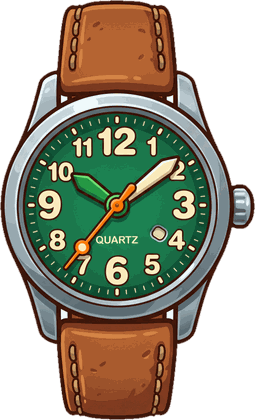
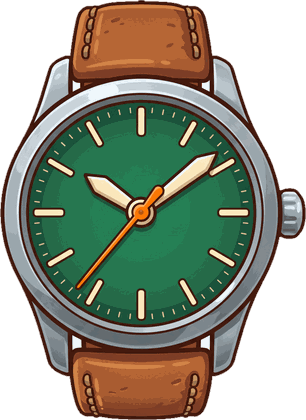
Images : 3 grandes cartes (dont la gradée), Golem, Loup, Kebabzor, trophées, montre quartz, icône cartes ; reprise lot-redo-19

diff --git a/js/assets.js b/js/assets.js
@@ -1,3 +1,3 @@
 /* généré par tools/manifest.py */
-window.ASSETS = ["ach-bets50", "ach-bets500", "ach-cr10", "ach-crp25", "ach-first-bet", "ach-hodl", "ach-mine10", "ach-mine200", "ach-resell25", "ach-rigmax", "ach-scr50", "ach-scr500", "ach-win100", "act-collab", "act-live", "act-rest", "act-shoot", "act-trip", "app-agence", "app-bank", "app-bets", "app-binder", "app-boosters", "app-crypto", "app-immo", "app-missions", "app-msg", "app-objets", "app-settings", "art-c-signed", "art-coach-foot", "art-coach-tennis", "art-fan-ultra", "art-k-b1", "art-k-b10", "art-k-b11", "art-k-b12", "art-k-b2", "art-k-b3", "art-k-b4", "art-k-b5", "art-k-b6", "art-k-b7", "art-k-b8", "art-k-b9", "art-k-f1", "art-k-f10", "art-k-f11", "art-k-f12", "art-k-f13", "art-k-f14", "art-k-f15", "art-k-f16", "art-k-f17", "art-k-f18", "art-k-f19", "art-k-f2", "art-k-f20", "art-k-f21", "art-k-f22", "art-k-f23", "art-k-f24", "art-k-f3", "art-k-f4", "art-k-f5", "art-k-f6", "art-k-f7", "art-k-f8", "art-k-f9", "art-k-t1", "art-k-t10", "art-k-t11", "art-k-t12", "art-k-t2", "art-k-t3", "art-k-t4", "art-k-t5", "art-k-t6", "art-k-t7", "art-k-t8", "art-k-t9", "art-mascot", "art-ref-foot", "badge-xe", "bed-laptop-f", "bed-laptop-m", "bg-city", "bg-city-renov", "bld-appart", "bld-appart-renov", "bld-balto", "bld-balto-renov", "bld-bijou", "bld-casino", "bld-casino-renov", "bld-club", "bld-club-renov", "bld-garage", "bld-kiosque", "bld-kiosque-renov", "bld-parking", "bld-shop", "bld-shop-renov", "bld-six", "bld-six-off", "bld-six-renov", "bld-tour", "bonus-airdrop", "bonus-cash", "bonus-freebet", "bonus-lingots", "bonus-ticket", "bonus-xp", "booster-pack", "btn-momo", "btn-setup", "btn-upgrade", "card-back", "card-back-crea", "card-bg-basket", "card-bg-foot", "card-bg-rugby", "card-bg-tennis", "casino-machine", "cat-car", "cat-card", "cat-gem", "cat-gold", "cat-sneaker", "cat-trophy", "cat-watch", "chip-1", "chip-10", "chip-100", "chip-25", "chip-5", "chip-500", "club-door", "club-room", "coin-btk", "coin-dgk", "coin-eta", "coin-lmn", "coin-ppc", "coin-slr", "cr-eva", "cr-ines", "cr-jade", "cr-kim", "cr-leila", "cr-lola", "cr-mila", "cr-nora", "cr-rose", "cr-sasha", "cred-boss", "cred-caid", "cred-hustler", "cred-magnat", "crest-b1", "crest-b10", "crest-b11", "crest-b12", "crest-b2", "crest-b3", "crest-b4", "crest-b5", "crest-b6", "crest-b7", "crest-b8", "crest-b9", "crest-f1", "crest-f10", "crest-f11", "crest-f12", "crest-f13", "crest-f14", "crest-f15", "crest-f16", "crest-f17", "crest-f18", "crest-f19", "crest-f2", "crest-f20", "crest-f21", "crest-f22", "crest-f23", "crest-f24", "crest-f3", "crest-f4", "crest-f5", "crest-f6", "crest-f7", "crest-f8", "crest-f9", "crest-r1", "crest-r2", "crest-r3", "crest-r4", "crest-r5", "crest-r6", "deco-dc-arcade", "deco-dc-ball", "deco-dc-bench", "deco-dc-car", "deco-dc-flags", "deco-dc-fountain", "deco-dc-kebab", "deco-dc-lamp", "deco-dc-palm", "deco-dc-posts", "deco-dc-statue", "deco-dc-trophy", "ev-boost", "ev-rig", "ev-sale", "ev-xp", "frame-gold", "frame-six", "full-c-ace", "full-c-essai", "full-c-final", "full-coach", "full-k-b4", "full-k-f4", "full-k-f8", "full-k-t1", "full-rookie", "fx-smoke", "gear-cam", "gear-cosplay", "gear-gown", "gear-mic", "gear-ring", "gear-spa", "gear-sport", "gear-studio", "gear-travel", "gift-big", "gift-open", "graded-slab", "guide", "hab-club", "hab-drink", "hab-smoke", "hdr-daily", "hdr-levelup", "hdr-missions", "hdr-settings", "ic-ad-reward", "ic-bus", "ic-club-bar", "ic-club-dance", "ic-club-dj", "ic-club-door", "ic-club-lounge", "ic-club-vip", "ic-promo", "ic-promo-bf", "ic-promo-halloween", "ic-promo-noel", "ic-rumor", "ic-shelf", "ic-shop-lingots", "ic-shop-ville", "ic-truck", "ic-videur", "icon-arrowL", "icon-arrowR", "icon-bolt", "icon-cash", "icon-check", "icon-gear", "icon-gift", "icon-lingot", "icon-lock", "icon-mute", "icon-sound", "icon-star", "icon-treasure", "icon-trophy", "item-c-1st", "item-c-dragon", "item-c-holo", "item-c-psa10", "item-c-signed", "item-cr-betonnard", "item-cr-biscotto", "item-cr-bitumouche", "item-cr-canardo", "item-cr-chenillette", "item-cr-cosmo", "item-cr-crocodalle", "item-cr-electrochat", "item-cr-escargoat", "item-cr-fenekko", "item-cr-flamenkoh", "item-cr-fourmidable", "item-cr-gorilleur", "item-cr-grenouf", "item-cr-herissnik", "item-cr-hiboss", "item-cr-kaiju", "item-cr-kraken", "item-cr-licornette", "item-cr-liontours", "item-cr-matouz", "item-cr-moustikass", "item-cr-pandagrillz", "item-cr-parrain", "item-cr-phenix", "item-cr-pigeonnard", "item-cr-poubellou", "item-cr-ratchou", "item-cr-requinoir", "item-cr-scarabling", "item-cr-serpentdor", "item-cr-taupecash", "item-cr-tigresko", "item-cr-trotilezard", "item-cr-yetiz", "item-g-diam", "item-g-roman", "item-g-ruby", "item-m-chopper", "item-m-road", "item-m-scoot", "item-o-bar10", "item-o-bar100", "item-o-lion", "item-o-napo", "item-p-flat", "item-p-office", "item-p-park", "item-p-studio", "item-s-basket", "item-s-camo", "item-s-chunky", "item-s-collab", "item-s-court", "item-s-gold", "item-s-graff", "item-s-lux", "item-s-moon", "item-s-neon", "item-s-retro", "item-s-runner", "item-s-skate", "item-st-kbc", "item-st-mtr", "item-st-nbk", "item-st-pxl", "item-st-sol", "item-st-stw", "item-t-collect", "item-t-combi", "item-t-first", "item-t-hodl", "item-t-jackpot", "item-v-city", "item-v-gti", "item-v-super", "item-w-chrono", "item-w-digital", "item-w-diver", "item-w-field", "item-w-grail", "item-w-iced", "item-w-pilot", "item-w-pocket", "item-w-quartz", "item-w-sq", "item-w-steel", "item-w-tourb", "item-w-unique", "logo", "minerv-0", "minerv-1", "minerv-2", "minerv-3", "minerv-4", "nav-bets", "nav-city", "nav-home", "nav-shop", "nav-trading", "nav-wallet", "pack-collec", "pack-magnat", "pack-noads", "pack-pass", "pack-start", "parking-bg", "pc-0", "pc-1", "pc-2", "pcv-0", "pcv-1", "pcv-2", "phone-wall", "player-t1", "player-t10", "player-t11", "player-t12", "player-t2", "player-t3", "player-t4", "player-t5", "player-t6", "player-t7", "player-t8", "player-t9", "pop-starter", "rig-0", "rig-1", "rig-2", "rig-3", "rig-4", "rigv-0", "rigv-1", "rigv-2", "rigv-3", "rigv-4", "ringlight", "room-f-0", "room-f-1", "room-f-2", "room-m-0", "room-m-1", "room-m-2", "roulette-felt", "roulette-hub", "shop-hero", "shop-lingot-1", "shop-lingot-2", "shop-lingot-3", "shop-lingot-4", "shop-lingot-5", "shop-lingot-6", "skin-boss", "skin-boss-bust", "skin-doudoune", "skin-doudoune-bust", "skin-flambeur", "skin-flambeur-bust", "skin-gold", "skin-gold-bust", "skin-hoodie", "skin-hoodie-bust", "skin-sportive", "skin-sportive-bust", "skin-survet", "skin-survet-bust", "slot-bar", "slot-bell", "slot-cherry", "slot-diam", "slot-lemon", "slot-seven", "ticket-flash", "tip-crypto", "tip-market", "tip-sport", "tk-astro", "tk-banco", "tk-black", "tk-flash", "tk-millio", "tk-morpion", "tkbg-astro", "tkbg-banco", "tkbg-black", "tkbg-flash", "tkbg-millio", "tkbg-morpion", "ui-avatar-frame", "ui-badge", "ui-bar-fill", "ui-bar-frame", "ui-btn-blue", "ui-btn-close", "ui-btn-green", "ui-btn-grey", "ui-btn-plus", "ui-btn-purple", "ui-btn-red", "ui-btn-yellow", "ui-card", "ui-casino-frame", "ui-casino-header", "ui-navbtn", "ui-panel", "ui-pill", "ui-ribbon", "ui-tab-off", "ui-tab-on", "ui-tuto-arrow"];
-window.ASSET_V = 1791307592;
+window.ASSETS = ["ach-bets50", "ach-bets500", "ach-cr10", "ach-crp25", "ach-first-bet", "ach-hodl", "ach-mine10", "ach-mine200", "ach-resell25", "ach-rigmax", "ach-scr50", "ach-scr500", "ach-win10", "ach-win100", "act-collab", "act-live", "act-rest", "act-shoot", "act-trip", "app-agence", "app-bank", "app-bets", "app-binder", "app-boosters", "app-crypto", "app-immo", "app-missions", "app-msg", "app-objets", "app-settings", "art-c-signed", "art-coach-foot", "art-coach-tennis", "art-fan-ultra", "art-k-b1", "art-k-b10", "art-k-b11", "art-k-b12", "art-k-b2", "art-k-b3", "art-k-b4", "art-k-b5", "art-k-b6", "art-k-b7", "art-k-b8", "art-k-b9", "art-k-f1", "art-k-f10", "art-k-f11", "art-k-f12", "art-k-f13", "art-k-f14", "art-k-f15", "art-k-f16", "art-k-f17", "art-k-f18", "art-k-f19", "art-k-f2", "art-k-f20", "art-k-f21", "art-k-f22", "art-k-f23", "art-k-f24", "art-k-f3", "art-k-f4", "art-k-f5", "art-k-f6", "art-k-f7", "art-k-f8", "art-k-f9", "art-k-t1", "art-k-t10", "art-k-t11", "art-k-t12", "art-k-t2", "art-k-t3", "art-k-t4", "art-k-t5", "art-k-t6", "art-k-t7", "art-k-t8", "art-k-t9", "art-mascot", "art-ref-foot", "badge-xe", "bed-laptop-f", "bed-laptop-m", "bg-city", "bg-city-renov", "bld-appart", "bld-appart-renov", "bld-balto", "bld-balto-renov", "bld-bijou", "bld-casino", "bld-casino-renov", "bld-club", "bld-club-renov", "bld-garage", "bld-kiosque", "bld-kiosque-renov", "bld-parking", "bld-shop", "bld-shop-renov", "bld-six", "bld-six-off", "bld-six-renov", "bld-tour", "bonus-airdrop", "bonus-cash", "bonus-freebet", "bonus-lingots", "bonus-ticket", "bonus-xp", "booster-pack", "btn-momo", "btn-setup", "btn-upgrade", "card-back", "card-back-crea", "card-bg-basket", "card-bg-foot", "card-bg-rugby", "card-bg-tennis", "casino-machine", "cat-car", "cat-card", "cat-gem", "cat-gold", "cat-sneaker", "cat-trophy", "cat-watch", "chip-1", "chip-10", "chip-100", "chip-25", "chip-5", "chip-500", "club-door", "club-room", "coin-btk", "coin-dgk", "coin-eta", "coin-lmn", "coin-ppc", "coin-slr", "cr-eva", "cr-ines", "cr-jade", "cr-kim", "cr-leila", "cr-lola", "cr-mila", "cr-nora", "cr-rose", "cr-sasha", "cred-boss", "cred-caid", "cred-hustler", "cred-magnat", "crest-b1", "crest-b10", "crest-b11", "crest-b12", "crest-b2", "crest-b3", "crest-b4", "crest-b5", "crest-b6", "crest-b7", "crest-b8", "crest-b9", "crest-f1", "crest-f10", "crest-f11", "crest-f12", "crest-f13", "crest-f14", "crest-f15", "crest-f16", "crest-f17", "crest-f18", "crest-f19", "crest-f2", "crest-f20", "crest-f21", "crest-f22", "crest-f23", "crest-f24", "crest-f3", "crest-f4", "crest-f5", "crest-f6", "crest-f7", "crest-f8", "crest-f9", "crest-r1", "crest-r2", "crest-r3", "crest-r4", "crest-r5", "crest-r6", "deco-dc-arcade", "deco-dc-ball", "deco-dc-bench", "deco-dc-car", "deco-dc-flags", "deco-dc-fountain", "deco-dc-kebab", "deco-dc-lamp", "deco-dc-palm", "deco-dc-posts", "deco-dc-statue", "deco-dc-trophy", "ev-boost", "ev-rig", "ev-sale", "ev-xp", "frame-gold", "frame-six", "full-c-ace", "full-c-dunk", "full-c-essai", "full-c-final", "full-c-goat", "full-c-graded", "full-coach", "full-k-b4", "full-k-f4", "full-k-f8", "full-k-t1", "full-rookie", "fx-smoke", "gear-cam", "gear-cosplay", "gear-gown", "gear-mic", "gear-ring", "gear-spa", "gear-sport", "gear-studio", "gear-travel", "gift-big", "gift-open", "graded-slab", "guide", "hab-club", "hab-drink", "hab-smoke", "hdr-daily", "hdr-levelup", "hdr-missions", "hdr-settings", "ic-ad-reward", "ic-bus", "ic-club-bar", "ic-club-dance", "ic-club-dj", "ic-club-door", "ic-club-lounge", "ic-club-vip", "ic-promo", "ic-promo-bf", "ic-promo-halloween", "ic-promo-noel", "ic-rumor", "ic-shelf", "ic-shop-lingots", "ic-shop-ville", "ic-truck", "ic-videur", "icon-arrowL", "icon-arrowR", "icon-bolt", "icon-cash", "icon-check", "icon-gear", "icon-gift", "icon-lingot", "icon-lock", "icon-mute", "icon-sound", "icon-star", "icon-treasure", "icon-trophy", "item-c-1st", "item-c-dragon", "item-c-holo", "item-c-psa10", "item-c-signed", "item-cr-betonnard", "item-cr-biscotto", "item-cr-bitumouche", "item-cr-canardo", "item-cr-chenillette", "item-cr-cosmo", "item-cr-crocodalle", "item-cr-electrochat", "item-cr-escargoat", "item-cr-fenekko", "item-cr-flamenkoh", "item-cr-fourmidable", "item-cr-golemneon", "item-cr-gorilleur", "item-cr-grenouf", "item-cr-herissnik", "item-cr-hiboss", "item-cr-kaiju", "item-cr-kebabzor", "item-cr-kraken", "item-cr-licornette", "item-cr-liontours", "item-cr-louperiph", "item-cr-matouz", "item-cr-moustikass", "item-cr-pandagrillz", "item-cr-parrain", "item-cr-phenix", "item-cr-pigeonnard", "item-cr-poubellou", "item-cr-ratchou", "item-cr-requinoir", "item-cr-scarabling", "item-cr-serpentdor", "item-cr-taupecash", "item-cr-tigresko", "item-cr-trotilezard", "item-cr-yetiz", "item-g-diam", "item-g-roman", "item-g-ruby", "item-m-chopper", "item-m-road", "item-m-scoot", "item-o-bar10", "item-o-bar100", "item-o-lion", "item-o-napo", "item-p-flat", "item-p-office", "item-p-park", "item-p-studio", "item-s-basket", "item-s-camo", "item-s-chunky", "item-s-collab", "item-s-court", "item-s-gold", "item-s-graff", "item-s-lux", "item-s-moon", "item-s-neon", "item-s-retro", "item-s-runner", "item-s-skate", "item-st-kbc", "item-st-mtr", "item-st-nbk", "item-st-pxl", "item-st-sol", "item-st-stw", "item-t-collect", "item-t-combi", "item-t-first", "item-t-hodl", "item-t-jackpot", "item-v-city", "item-v-gti", "item-v-super", "item-w-chrono", "item-w-digital", "item-w-diver", "item-w-field", "item-w-grail", "item-w-iced", "item-w-pilot", "item-w-pocket", "item-w-quartz", "item-w-sq", "item-w-steel", "item-w-tourb", "item-w-unique", "logo", "minerv-0", "minerv-1", "minerv-2", "minerv-3", "minerv-4", "nav-bets", "nav-city", "nav-home", "nav-shop", "nav-trading", "nav-wallet", "pack-collec", "pack-magnat", "pack-noads", "pack-pass", "pack-start", "parking-bg", "pc-0", "pc-1", "pc-2", "pcv-0", "pcv-1", "pcv-2", "phone-wall", "player-t1", "player-t10", "player-t11", "player-t12", "player-t2", "player-t3", "player-t4", "player-t5", "player-t6", "player-t7", "player-t8", "player-t9", "pop-starter", "rig-0", "rig-1", "rig-2", "rig-3", "rig-4", "rigv-0", "rigv-1", "rigv-2", "rigv-3", "rigv-4", "ringlight", "room-f-0", "room-f-1", "room-f-2", "room-m-0", "room-m-1", "room-m-2", "roulette-felt", "roulette-hub", "shop-hero", "shop-lingot-1", "shop-lingot-2", "shop-lingot-3", "shop-lingot-4", "shop-lingot-5", "shop-lingot-6", "skin-boss", "skin-boss-bust", "skin-doudoune", "skin-doudoune-bust", "skin-flambeur", "skin-flambeur-bust", "skin-gold", "skin-gold-bust", "skin-hoodie", "skin-hoodie-bust", "skin-sportive", "skin-sportive-bust", "skin-survet", "skin-survet-bust", "slot-bar", "slot-bell", "slot-cherry", "slot-diam", "slot-lemon", "slot-seven", "ticket-flash", "tip-crypto", "tip-market", "tip-sport", "tk-astro", "tk-banco", "tk-black", "tk-flash", "tk-millio", "tk-morpion", "tkbg-astro", "tkbg-banco", "tkbg-black", "tkbg-flash", "tkbg-millio", "tkbg-morpion", "ui-avatar-frame", "ui-badge", "ui-bar-fill", "ui-bar-frame", "ui-btn-blue", "ui-btn-close", "ui-btn-green", "ui-btn-grey", "ui-btn-plus", "ui-btn-purple", "ui-btn-red", "ui-btn-yellow", "ui-card", "ui-casino-frame", "ui-casino-header", "ui-navbtn", "ui-panel", "ui-pill", "ui-ribbon", "ui-tab-off", "ui-tab-on", "ui-tuto-arrow"];
+window.ASSET_V = 1791310247;

diff --git a/tools/lot-redo-19.js b/tools/lot-redo-19.js
@@ -1,0 +1,81 @@
+// Lot d'images Hustle City : à coller dans la console de Chrome, sur magnific.com/app/ai-image-generator
+// Avant : mode Unlimited sur ON, qualité « 2K · High », Smart prompt sur OFF. Le script s'arrête tout seul sinon (jamais de crédits).
+// Outil d'automatisation Magnific (à coller dans la page magnific.com/app/ai-image-generator)
+window.HC = {
+  w: ms => new Promise(r => setTimeout(r, ms)),
+  S: "2D mobile game art, polished cartoon illustration, thick dark brown outlines, bold saturated colors, soft cel shading with subtle highlights, slightly exaggerated funny proportions, humorous cartoon vibe, clean vector-like rendering, high detail, same art style as the reference images, a bit more urban street style. ",
+  results: {}, log: [],
+  btn: re => [...document.querySelectorAll('button')].find(b => re.test(b.innerText.trim())),
+  async prompt(t) { const ed = document.querySelector('[contenteditable=true]'); ed.focus(); document.execCommand('selectAll'); document.execCommand('insertText', false, t); await HC.w(300); },
+  vis: e => { const r = e.getBoundingClientRect(); return r.width > 0 && r.height > 0; },
+  // le format et la qualité sont parfois rangés derrière la roue ⚙ à côté du modèle : on l'ouvre si besoin
+  async openSettings() { const m = [...document.querySelectorAll('button')].find(b => /Nano Banana/.test(b.innerText)); const row = m && m.parentElement; const g = row && [...row.querySelectorAll('button')].find(b => b !== m && !b.innerText.trim()); if (g) { g.click(); await HC.w(700); return true; } return false; },
+  // on cherche seulement dans le panneau de gauche et les menus ouverts (pas dans l'historique des images)
+  panel() { const m = [...document.querySelectorAll('button')].find(b => /Nano Banana/.test(b.innerText)); let p = m; while (p && p.parentElement && !p.querySelector('[contenteditable=true]')) p = p.parentElement; return p || document.body; },
+  findText(re) { const roots = [HC.panel(), ...document.querySelectorAll('[role=dialog],[role=listbox],[role=menu],[data-radix-popper-content-wrapper]')]; return roots.flatMap(r => [...r.querySelectorAll('button,[role=option],[role=radio],[role=menuitem],li,label,div,span')]).filter(e => HC.vis(e) && e.children.length < 6 && re.test((e.innerText || '').trim())).sort((a, b) => a.innerText.length - b.innerText.length)[0]; },
+  async ratio(r) { const re = new RegExp('^' + r.replace(':', '\\s*:\\s*') + '(\\n|$)'); let o = HC.findText(re); if (!o) { await HC.openSettings(); o = HC.findText(re); } if (!o) { const cur = [...document.querySelectorAll('button')].find(b => HC.vis(b) && /^\d+:\d+$|^auto$/i.test(b.innerText.trim())); if (cur) { cur.click(); await HC.w(600); o = HC.findText(re); } } if (!o) for (const alt of ({ '3:1': ['21:9', '16:9'], '1:3': ['9:21', '9:16'], '2:1': ['16:9', '21:9'], '1:2': ['9:16'] }[r] || [])) { o = HC.findText(new RegExp('^' + alt.replace(':', '\\s*:\\s*') + '(\\n|$)')); if (o) { HC.log.push('format ' + r + ' remplacé par ' + alt); break; } }
+    if (o) { o.click(); await HC.w(500); } else HC.log.push('format ' + r + ' introuvable (gardé tel quel)'); document.dispatchEvent(new KeyboardEvent('keydown', { key: 'Escape', bubbles: true })); await HC.w(300); },
+  check() { const t = document.querySelector('[data-cy=smart-prompt-toggle]'); const off = !t || t.querySelector('span').className.includes('bg-surface-4'); const gen = [...document.querySelectorAll('button')].find(x => x.innerText.trim().startsWith('Generate')); const ub = document.querySelector('[data-cy=unlimited-mode-toggle-button]'); const unl = !!gen && (gen.innerText.includes('Unlimited') || /Unlimited generations/.test((gen.parentElement || {}).innerText || '')) && (!ub || ub.innerText.trim() === 'ON'); const qe = [...document.querySelectorAll('button,span')].find(x => HC.vis(x) && /^(1K|2K|4K)\b/.test(x.innerText.trim())); return { off, unl, q: qe ? qe.innerText.trim() : null, gen }; },
+  // jamais de crédits : on ne lance QUE si « Unlimited » est affiché. La qualité, si on la voit, doit être 2K.
+  async go() { let c; for (let i = 0; i < 25; i++) { c = HC.check(); if (c.unl && (!c.q || /2K/.test(c.q))) break; await HC.w(800); } if (!c.unl) return 'STOP : mode Unlimited pas actif'; if (c.q && !/2K/.test(c.q)) return 'STOP : qualité ' + c.q + ' (mets 2K)'; c.gen.click(); return 'generating'; },
+  api: 'https://www.magnific.com/app/api/projects/folders/7fabba97-a6a0-4437-be44-e477002c2690/files?page=1&per_page=60&order_by=created_at&order_direction=desc&folder_reference=7fabba97-a6a0-4437-be44-e477002c2690&lang=en_US&user_id=98122212',
+  async list() { const j = await (await fetch(HC.api, { credentials: 'include', headers: { Accept: 'application/json' } })).json(); return j.data.map(f => { const s = JSON.stringify(f.creation || {}); const m = s.match(/https:\\?\/\\?\/pikaso[^"]+render\.png\?token=[^"\\&]+/); return { t: Date.parse(f.created_at), name: f.name, url: m ? m[0].replace(/\\\//g, '/') : null }; }); },
+  async find(prompt, since) { const l = await HC.list(); const hit = l.find(x => x.url && x.t >= since - 15000 && x.name && (x.name === prompt || (x.name.length >= 300 && prompt.startsWith(x.name.replace(/…$/, ''))))); return hit ? hit.url : null; },
+  async run(list) { HC.running = true; try { for (const [name, ratio, p, ref] of list) { if (HC.results[name] || HC.stop) continue; try { if (ref) { const n = await HC.swapToUrl(HC.results[ref] || ref); if (!n) HC.log.push(name + ' : modèle pas ajouté'); } else await HC.clearRefs(); } catch (e) { HC.log.push(name + ' : modèle ' + e.message); } if (!document.querySelector('[contenteditable=true]')) { HC.log.push('pas de zone de saisie'); break; } await HC.prompt(p); await HC.ratio(ratio); await HC.w(300); const since = Date.now(); const g = await HC.go(); if (g !== 'generating') { HC.log.push(name + ' ' + g); HC.stop = true; break; } let url = null; for (let i = 0; i < 180 && !url; i++) { await HC.w(5000); try { url = await HC.find(p, since); } catch (e) {} } if (url) HC.results[name] = url; else HC.log.push(name + ' timeout'); await HC.w(1000); } } catch (e) { HC.log.push('erreur ' + e.message); } HC.running = false; },
+  async clearRefs() {
+    if (HC.btn(/^Clear all$/)) { HC.btn(/^Clear all$/).click(); await HC.w(800); document.dispatchEvent(new KeyboardEvent('keydown', { key: 'Escape', bubbles: true })); await HC.w(500); }
+    for (const b of [...document.querySelectorAll('[aria-label^="Remove"]')]) { b.click(); await HC.w(500); }
+  },
+  async swapToUrl(url) {
+    if (HC.btn(/^Clear all$/)) { HC.btn(/^Clear all$/).click(); await HC.w(800); document.dispatchEvent(new KeyboardEvent('keydown', { key: 'Escape', bubbles: true })); await HC.w(800); }
+    for (const b of [...document.querySelectorAll('[aria-label^="Remove"]')]) { b.click(); await HC.w(600); }
+    const blob = await (await fetch(url)).blob();
+    const add = [...document.querySelectorAll('div,button')].find(e => /^Add$/.test((e.innerText || '').trim()) && e.children.length <= 2); add.click(); await HC.w(2000);
+    if (HC.btn(/^Clear all$/)) { HC.btn(/^Clear all$/).click(); await HC.w(800); }
+    const inp = [...document.querySelectorAll('input[type=file]')].find(i => i.accept.includes('image/'));
+    const dt = new DataTransfer(); dt.items.add(new File([blob], 'reference.png', { type: 'image/png' }));
+    inp.files = dt.files; inp.dispatchEvent(new Event('input', { bubbles: true })); inp.dispatchEvent(new Event('change', { bubbles: true }));
+    await HC.w(6000);
+    const b = HC.btn(/^Add( \d+)?$/); if (b) b.click(); await HC.w(3000);
+    return document.body.innerText.match(/\d+\/14/)?.[0];
+  }
+};
+
+// petit ZIP sans compression, pour tout télécharger en un seul fichier
+HC.zip = async (entries) => {
+  const crcT = new Uint32Array(256).map((_, n) => { let c = n; for (let k = 0; k < 8; k++) c = c & 1 ? 0xEDB88320 ^ (c >>> 1) : c >>> 1; return c >>> 0; });
+  const crc = d => { let c = 0xFFFFFFFF; for (let i = 0; i < d.length; i++) c = crcT[(c ^ d[i]) & 255] ^ (c >>> 8); return (c ^ 0xFFFFFFFF) >>> 0; };
+  const parts = [], cent = []; let off = 0;
+  for (const [name, data] of entries) {
+    const nm = new TextEncoder().encode(name), c = crc(data), h = new DataView(new ArrayBuffer(30));
+    h.setUint32(0, 0x04034b50, true); h.setUint16(4, 20, true); h.setUint32(14, c, true); h.setUint32(18, data.length, true); h.setUint32(22, data.length, true); h.setUint16(26, nm.length, true);
+    parts.push(new Uint8Array(h.buffer), nm, data);
+    const e = new DataView(new ArrayBuffer(46)); e.setUint32(0, 0x02014b50, true); e.setUint16(4, 20, true); e.setUint16(6, 20, true); e.setUint32(16, c, true); e.setUint32(20, data.length, true); e.setUint32(24, data.length, true); e.setUint16(28, nm.length, true); e.setUint32(42, off, true);
+    cent.push(new Uint8Array(e.buffer), nm); off += 30 + nm.length + data.length;
+  }
+  const cs = cent.reduce((a, b) => a + b.length, 0), end = new DataView(new ArrayBuffer(22));
+  end.setUint32(0, 0x06054b50, true); end.setUint16(8, entries.length, true); end.setUint16(10, entries.length, true); end.setUint32(12, cs, true); end.setUint32(16, off, true);
+  return new Blob([...parts, ...cent, new Uint8Array(end.buffer)], { type: 'application/zip' });
+};
+// télécharge toutes les images dans UN seul fichier « hustle-city-images.zip »
+HC.downloadAll = async (results) => {
+  const entries = [];
+  for (const [name, url] of Object.entries(results)) { const b = new Uint8Array(await (await fetch(url)).arrayBuffer()); entries.push([name + '.png', b]); }
+  const a = document.createElement('a'); a.href = URL.createObjectURL(await HC.zip(entries)); a.download = 'hustle-city-images.zip'; a.click();
+};
+HC.LOT = [["full-c-ballon","2:3","2D mobile game art, polished cartoon illustration, thick dark brown outlines, bold saturated colors, soft cel shading with subtle highlights, clean vector-like rendering, high detail, a bit more urban street style. a glowing golden football (soccer ball) floating in the air above a pedestal in a street stadium, beams of golden light, crowd silhouettes. Full-art holographic sports trading card illustration: the hero breaks out of a spectacular explosive background with rainbow holographic light streaks, sparkles and energy, epic dramatic composition filling the whole portrait image, no card frame, no border, no name box. Correct anatomy: two arms, two legs, five fingers per hand. No text, no letters, no numbers, no words, no logos, no brands. No person in the image. This character must look completely different from any other card: unique face, unique hairstyle, unique skin tone. Plain clean concrete walls and stadium in the background, NO graffiti, NO tags, NO letters, NO writing anywhere."]];
+(async () => {
+  const box = document.createElement('div');
+  box.style.cssText = 'position:fixed;z-index:99999;right:16px;bottom:16px;width:280px;padding:14px;border-radius:14px;background:#2a1a10;color:#fff;font:600 14px sans-serif;box-shadow:0 6px 20px rgba(0,0,0,.4)';
+  document.body.appendChild(box);
+  const show = () => { const n = Object.keys(HC.results).length; box.innerHTML = `<b>Hustle City</b><br>${n} / ${HC.LOT.length} images faites${HC.log.length ? '<br><span style="color:#ff8a7a">' + HC.log.join('<br>') + '</span>' : ''}`; };
+  const t = setInterval(show, 2000); show();
+  await HC.run(HC.LOT); clearInterval(t); show();
+  const b = document.createElement('button'); b.textContent = 'Copier les résultats'; b.style.cssText = 'display:block;width:100%;margin-top:10px;padding:10px;border:0;border-radius:10px;background:#5fc73a;color:#fff;font:700 14px sans-serif;cursor:pointer';
+  b.onclick = () => { const txt = Object.entries(HC.results).map(([k, v]) => k + ' ' + v).join('\n'); navigator.clipboard.writeText(txt); b.textContent = 'Copié ! Colle-le à Claude'; };
+  box.appendChild(b);
+  const d = document.createElement('button'); d.textContent = 'Télécharger tout (1 fichier)'; d.style.cssText = b.style.cssText.replace('#5fc73a', '#45a8ec');
+  d.onclick = async () => { d.textContent = 'Préparation…'; await HC.downloadAll(HC.results); d.textContent = 'Glisse le fichier dans Claude'; };
+  box.appendChild(d);
+})();
+'Lot lancé';

diff --git a/game.html b/game.html
@@ -106,7 +106,7 @@
   // Chargement du jeu. En local : les fichiers du dossier. Mis à jour depuis internet (index.html) : le code vient
   // de raw.githubusercontent (rapide et toujours à jour), les images du dossier local quand on joue sur son ordi.
   (function () {
-    var V = '?v=305', FILES = ['js/layout.js', 'js/data.js', 'js/content.js', 'js/assets.js', 'js/game.js', 'js/audio.js', 'js/ui.js', 'js/casino.js', 'js/scratch.js', 'js/balto.js', 'js/agence.js', 'js/tuto.js', 'js/online.js', 'js/push.js'].slice(), CSS = 'css/style.css';
+    var V = '?v=306', FILES = ['js/layout.js', 'js/data.js', 'js/content.js', 'js/assets.js', 'js/game.js', 'js/audio.js', 'js/ui.js', 'js/casino.js', 'js/scratch.js', 'js/balto.js', 'js/agence.js', 'js/tuto.js', 'js/online.js', 'js/push.js'].slice(), CSS = 'css/style.css';
     var m = document.baseURI.match(/^https:\/\/cdn\.jsdelivr\.net\/gh\/([^@]+)@([^/]+)\//);
     if (!m) {
       document.write('<link rel="stylesheet" href="' + CSS + V + '">');

diff --git a/tools/process.py b/tools/process.py
@@ -91,7 +91,7 @@ def cutout(im, keep=None, debug=None, tol=60):
     bbox = alpha.point(lambda v: 255 if v > 20 else 0).getbbox()
     return im.crop(bbox) if bbox else im
 
-CREA_CROP = {'item-cr-scarabling': (.19, .16, .81, .70), 'item-cr-parrain': (.17, .19, .84, .70)}
+CREA_CROP = {'item-cr-scarabling': (.19, .16, .81, .70), 'item-cr-parrain': (.17, .19, .84, .70), 'item-cr-louperiph': (.16, .19, .84, .74)}
 
 def run(name):
     im = Image.open(os.path.join(src, name + '.png'))
